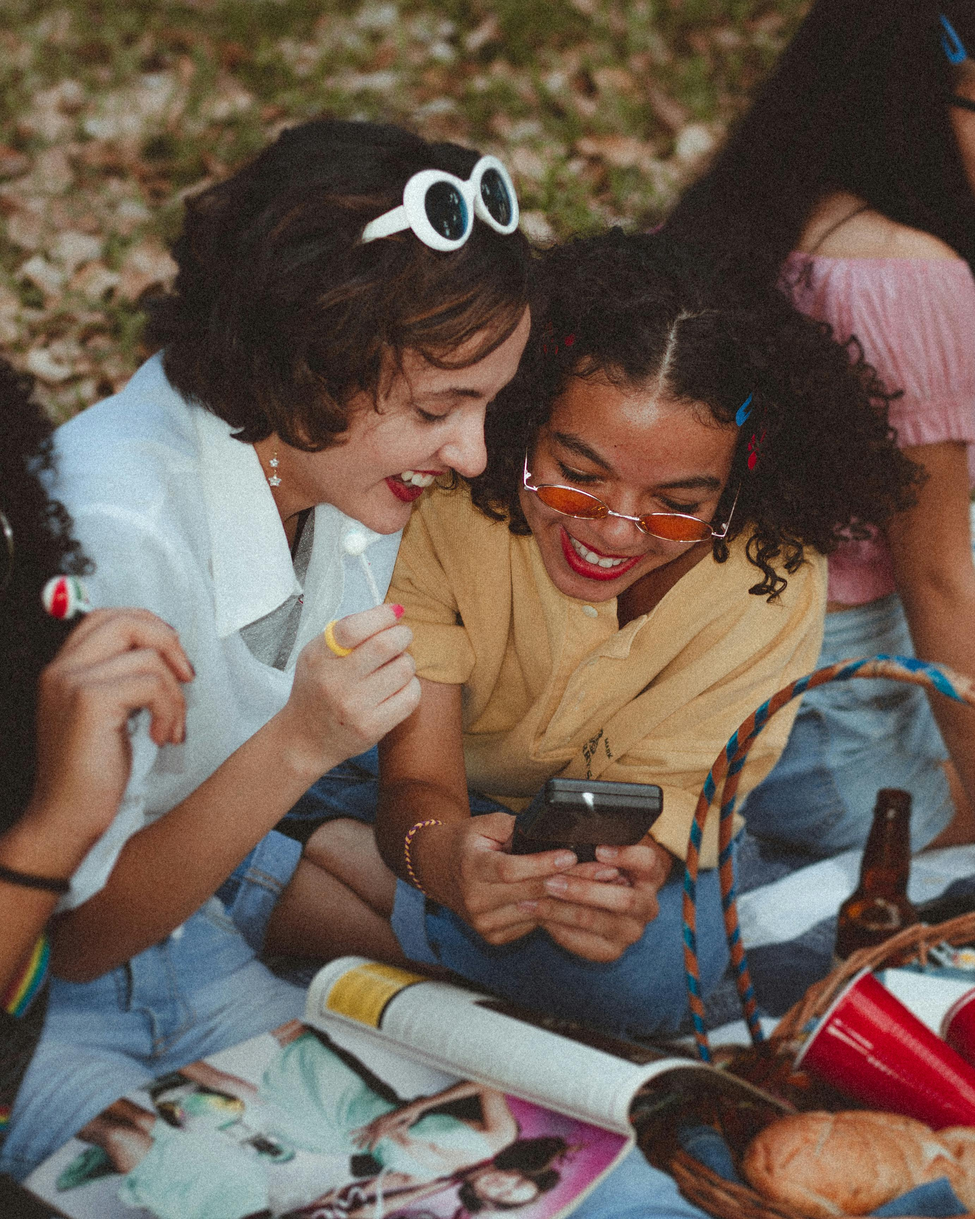
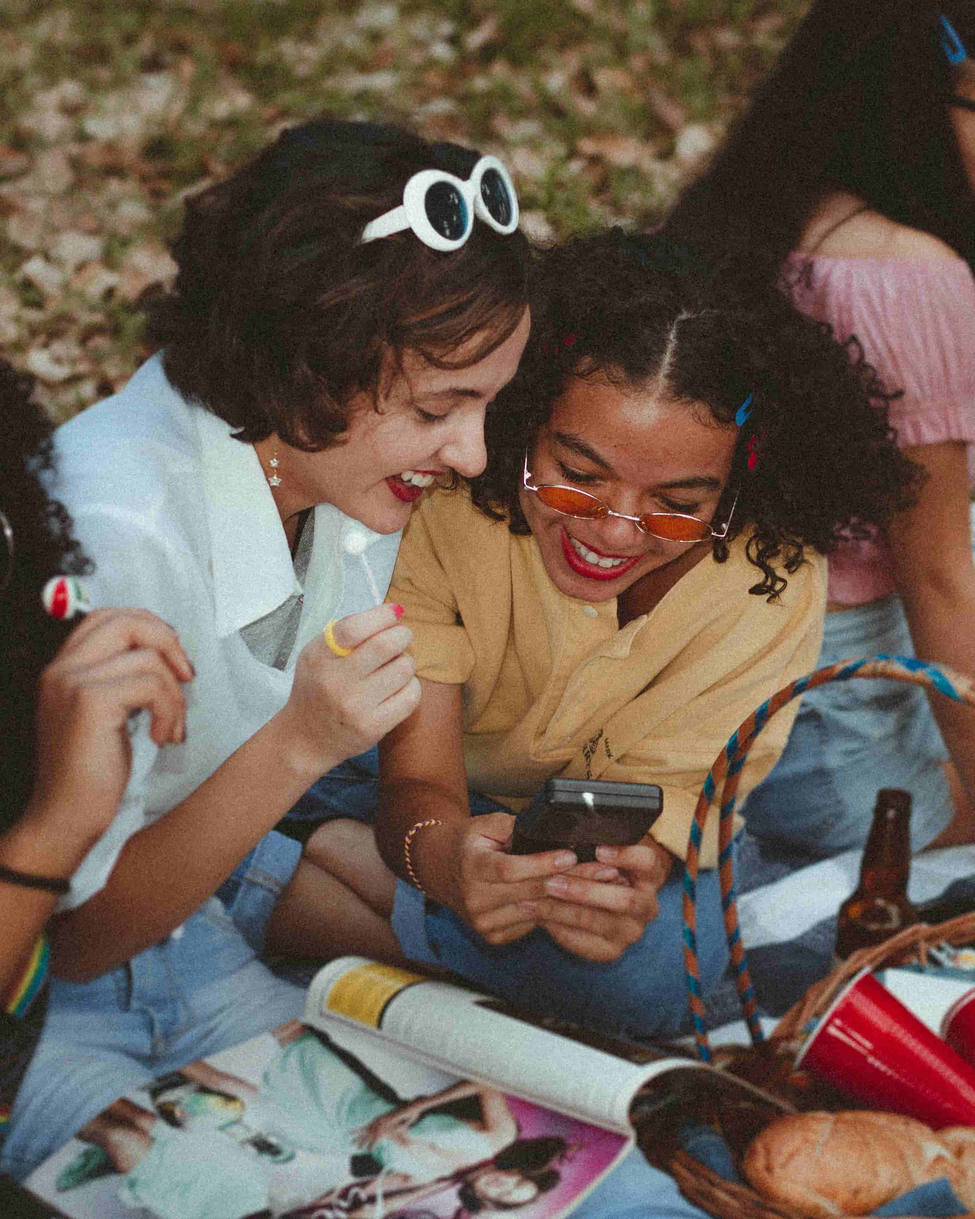
feat: change image in auth

diff --git a/src/app/forgot-password/page.tsx b/src/app/forgot-password/page.tsx
@@ -31,7 +31,7 @@ const ForgotPasswordPage: React.FC = () => {
     <section className={`${styles.container}`}>
       <div className={`${styles.forgot_container}`}>
         <article className={`${styles.column1}`}>
-          <img src="/images/img_person.jpg" alt="forgot password img" />
+          <img src="/images/img_mujeres_riendo.jpg" alt="forgot password img" />
         </article>
         <article className={styles.column2}>
           <div className={styles.title}>

diff --git a/src/app/register/page.tsx b/src/app/register/page.tsx
@@ -82,7 +82,7 @@ const Page: React.FC = () => {
     <section className={`${styles.container}`}>
       <div className={`${styles.register_container}`}>
         <article className={`${styles.column1}`}>
-          <img src="/images/img_person.jpg" alt="register img" />
+          <img src="/images/img_mujeres_riendo.jpg" alt="register img" />
         </article>
         <article className={styles.column2}>
           <div className={styles.title}>

diff --git a/src/app/login/page.tsx b/src/app/login/page.tsx
@@ -58,7 +58,7 @@ const Page: React.FC = () => {
     <section className={`${styles.container}`}>
       <div className={`${styles.login_container}`}>
         <article className={`${styles.column1}`}>
-          <img src="/images/img_person.jpg" alt="login img" />
+          <img src="/images/img_mujeres_riendo.jpg" alt="login img" />
         </article>
         <article className={styles.column2}>
           <div className={styles.title}>

diff --git a/src/components/hero/page.tsx b/src/components/hero/page.tsx
@@ -23,7 +23,7 @@ const Page: React.FC = () => {
         </Button>
       </div>
       <div className={styles.hero_image_container}>
-        <img src="/images/img_amigos_1.jpeg" className={styles.hero_img} />
+        <img src="/images/img_amigos_1.jpg" className={styles.hero_img} />
       </div>
     </section>
   )
